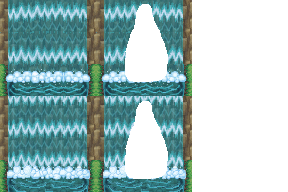
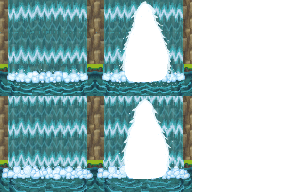
cascade door

diff --git a/scripts/constants/maps-layers.js b/scripts/constants/maps-layers.js
@@ -1,6 +1,6 @@
 const principalMapLayers = {
     rabbitHoleCeilings:  ['Ceiling-alice-1', 'Ceiling-alice-2', 'Ceiling-alice-3', 'Ceiling-alice-0', 'Ceiling-alice-01'],
-    cavernCeiling: ['Ceiling-cave-2', 'Ceiling-cave-1', 'Waterfall'],
+    cavernCeiling: ['Ceiling-cave-2', 'Ceiling-cave-1', 'WaterfallOpenedUp', 'WaterfallOpenedDown', 'WaterfallClosedUp', 'WaterfallClosedDown'],
     ladyOfTheLake: ['Lady-of-the-lake', 'Lady-of-the-lake-up'],
     meetings: ['caverne', 'terrier-du-lapin', 'champ', 'place', 'quais', 'black-pearl']
 }
